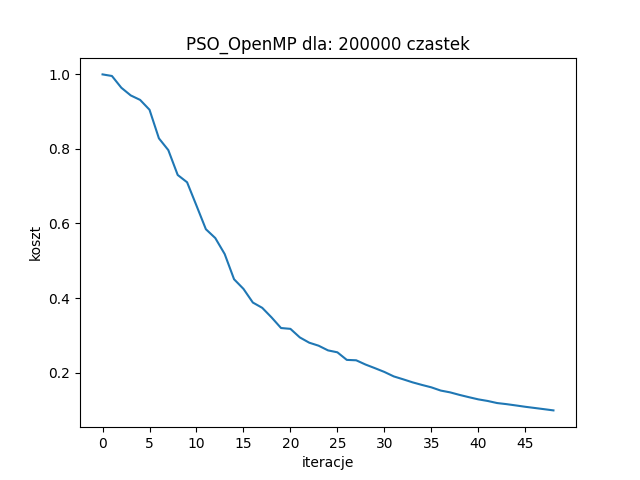
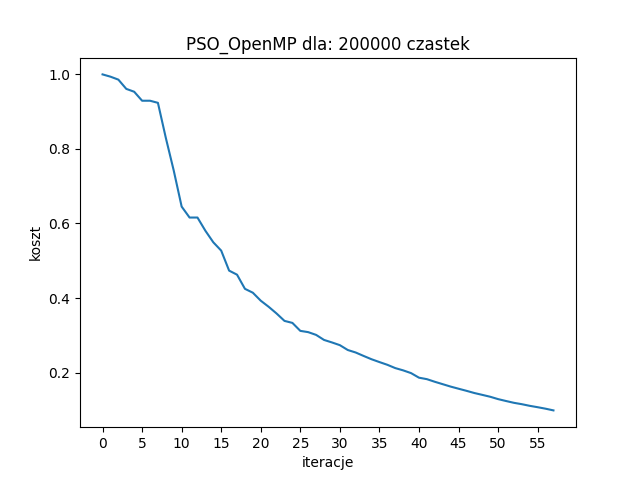
minor fix

diff --git a/src/Swarm.cpp b/src/Swarm.cpp
@@ -16,17 +16,23 @@
 using namespace std;
 
 #ifdef OPEN_MP_SWARM
-Swarm::Swarm(int mAmountOfParticles, int mVectorDim, OptimizationExercisesConfig* config) :
+Swarm::Swarm(int mAmountOfParticles, int mVectorDim, Logger* log, OptimizationExercisesConfig* config) :
 amountOfParticles{mAmountOfParticles}, vectorDim{mVectorDim}, swarm(mAmountOfParticles)
 {
-    printf("Welcome to OpenMP version!\n");
+    log->stream << "$TYPE$" << '\n';   
+    log->stream << "OpenMP" << '\n';
+    log->stream << "$DATA$" << '\n';    
+    printf("Welcome to OpenMP version!\n");    
     makeSwarm(config);
 }
 #else
 
-Swarm::Swarm(int mAmountOfParticles, int mVectorDim, OptimizationExercisesConfig *config) :
+Swarm::Swarm(int mAmountOfParticles, int mVectorDim, Logger* log, OptimizationExercisesConfig *config) :
 amountOfParticles{mAmountOfParticles}, vectorDim{mVectorDim}, swarm(mAmountOfParticles)
-{
+{   
+    log->stream << "$TYPE$" << '\n';   
+    log->stream << "Serial" << '\n';
+    log->stream << "$DATA$" << '\n';    
     printf("Welcome to serial version!\n");
     makeSwarm(config);
 }
@@ -113,12 +119,14 @@ Particle Swarm::findTheBestParticle(float criterionStopValue, float w, float spe
             
             #pragma omp master
             {
+                double cost = globalBestParticle.first.getCostFunctionValue();
                 printf("Swarm::findTheBestParticle: iteration = %d, globalBestParticle.first = %lf\n",
-                    iteration_number, globalBestParticle.first.getCostFunctionValue());
+                       iteration_number, cost);
+                log->stream << iteration_number << ',' << cost << '\n';
                 iteration_number++;
             }
-                
-            #pragma omp critical
+
+#pragma omp critical
             {
                 if(!configStop->computeStopCriterion(criterionStopValue, globalBestParticle))
                     foundSolution = true;
@@ -132,7 +140,7 @@ Particle Swarm::findTheBestParticle(float criterionStopValue, float w, float spe
 #else
 
 Particle Swarm::findTheBestParticle(float criterionStopValue, float w, float speedConstant1, float speedConstant2,
-                                    StopCriterionConfig *configStop) {
+                                    Logger* log, StopCriterionConfig *configStop) {
     while (configStop->computeStopCriterion(criterionStopValue, &GbestVector)) {
         for (auto &singleParticle : swarm) // access by reference to avoid copying
         {
